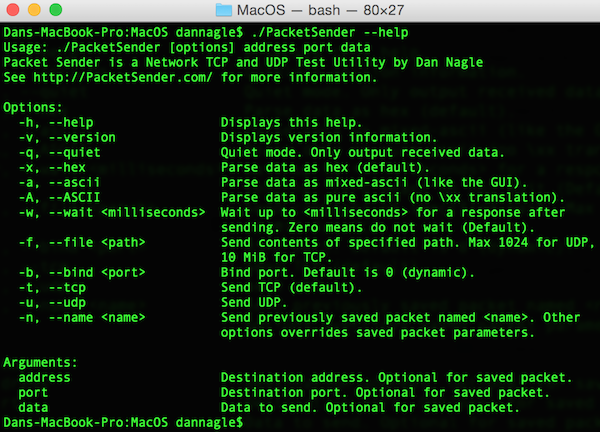
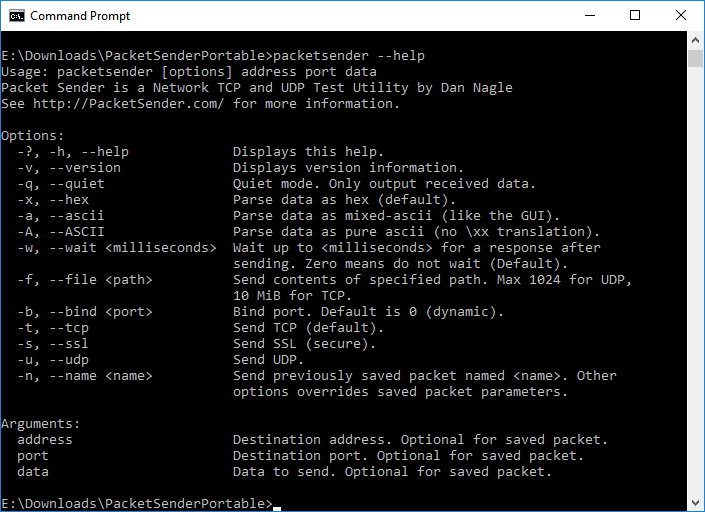
added ssl documenation

diff --git a/README.md b/README.md
@@ -2,7 +2,7 @@
 
 ![Packet Sender Logo](screenshots/packetsender_banner.png)
 
-Packet Sender is an open source utility to allow sending and receiving TCP and UDP packets. Packet Sender can also send SSL packets. The mainline branch officially supports Windows, Mac, and Desktop Linux (with Qt). Other places may recompile and redistribute Packet Sender. Packet Sender is free and licensed GPL v2 or later. It can be used for both commercial and personal use.
+Packet Sender is an open source utility to allow sending and receiving TCP and UDP packets. Packet Sender can also send SSL (encrypted TCP) packets. The mainline branch officially supports Windows, Mac, and Desktop Linux (with Qt). Other places may recompile and redistribute Packet Sender. Packet Sender is free and licensed GPL v2 or later. It can be used for both commercial and personal use.
 
 ## Uses
 
@@ -10,7 +10,7 @@ Packet Sender is an open source utility to allow sending and receiving TCP and U
 * Test automation (using its command line tool)
 * Testing network APIs (using the built-in TCP and UDP clients)
 * Malware analysis (using the built-in UDP and TCP servers)
-* Troubleshooting secure connections (using the SSL client). 
+* Troubleshooting secure connections (using the SSL client).
 * Testing network connectivity/firewalls (by having 2 Packet Senders talk to each other)
 * Tech support (by sending customers a portable Packet Sender with pre-defined settings and packets)
 
@@ -28,7 +28,7 @@ Some knowledge of basic network protocols is a prerequisite to using Packet Send
 
 * Twitter: [@NagleCode](http://twitter.com/naglecode)
 * You may also track this project on [GitHub](http://github.com/dannagle/PacketSender).
-* Secure Anonymous Email: [DanNagle.com/contact](http://DanNagle.com/contact)
+* Secure Anonymous Email: [DanNagle.com/](http://DanNagle.com/)
 
 ### Portable Mode
 
@@ -50,7 +50,7 @@ Packet Sender is identical for all the desktop versions. The only difference is 
 ![Packet Sender screenshot](screenshots/packetsender_mac_screenshot.png)
 
 
-* In the bottom right, there are UDP server and TCP server status and port. You can click to activate or deactivate these.
+* In the bottom right, there are UDP server and TCP server status and port. You can click to activate or deactivate these. There is no built-in SSL server.
 * There is also IPv4 Mode and IPv6 Mode. Click to toggle between server modes.
 * During packet resending, there will be a button to cancel all resends.
 * Please check your firewall. Windows aggressively blocks TCP-based servers. Packet Sender will still work if the firewall blocks it, but it can't receive unsolicited TCP-based packets.
@@ -58,7 +58,7 @@ Packet Sender is identical for all the desktop versions. The only difference is 
 * Select multiple packets to enable "Multi-Send". Selected packets are shown in a quick-send area above the traffic log.
 * Fields can be rearranged by drag-and-drop in the settings menu.
 * A resend value of "0" means it is a single-shot packet.
-* A packet has a name, destination address (domains will trigger an IP lookup), port, and data associated with it.
+* A packet has a name, destination address (domain names are default resolved just before sending), port, and data associated with it.
 * Click "Send" to immediately send. Click "Save" to send later.
 * For IPv6 sending, you will also need the scope ID.
 * Packet Sender supports mixed ASCII and HEX notation:
@@ -70,7 +70,26 @@ Packet Sender is identical for all the desktop versions. The only difference is 
   * Example ASCII: hello world\r
   * Example HEX: 68 65 6c 6c 6f 20 77 6f 72 6c 64 0d
   * You may save a packet directly from the traffic log. You will be prompted for a name, and the source address and port will be switched for your convenience.
+  * You may also load a file directly in to the HEX field. The HEX field supports sending up to 10,922 bytes. The theoretical limit for sending via the command line is 200 MB. 
 * An optional response can be sent. The same response is used for TCP and UDP.
+
+
+### SSL
+Packet Sender supports establishing encrypted connections over SSL. This is supported in the GUI and on the command line. Some notes on this:
+
+* The certificate negotiation is handled transparently.
+* By default, Packet Sender ignores all SSL errors (expired cert, wrong host name, weak encryption, etc).
+* Packet Sender outputs the cert negotiation progress in to the traffic log.
+* Packet Sender outputs the encryption algorithm used in the traffic log (such as AES 128).
+
+
+![Packet Sender Direct TCP](screenshots/packetsender_ssl.png)
+
+* If there is an SSL error, Packet Sender will output it to the traffic log. If the setting is to continue anyway (default), it will continue to negotiate encryption. Otherwise, the connection ends with failure to connect.
+
+![Packet Sender Direct TCP](screenshots/packetsender_expired_ssl.png)
+
+
 
 ### Smart Responses
 Packet Sender supports up to 5 smart responses. To use it, disable normal responses.
@@ -90,15 +109,15 @@ Packet Sender supports these macros when sending responses:
 * {{RANDOM}} -- Sends a random number ranging from either 0 to 32767 or 2147483647, depending on 32-bit or 64-bit (default installer for Windows is 32-bit. Mac is 64-bit).
 Packet Sender will swap the macro with real values before sending.
 
-### Persistent TCP
+### Persistent TCP and SSL
 Packet Sender supports persistent connections via a separate UI dialog. It is enabled by checkbox on the main window or in the settings dialog.
-![Packet Sender Direct TCP](screenshots/packetsender_direct_tcp.png)
+![Packet Sender Direct TCP and SSL](screenshots/packetsender_direct_tcp.png)
 * Any number of persistent connections can be created.
 * Previously saved packets can be loaded in the drop-down.
 * There is a "raw" view and "ASCII" view. The ASCII view is useful to troubleshoot data that is not printed by the raw view.
 * Traffic is also saved in the main window traffic log.
 * The timer in the bottom lefts starts as soon as a valid data packet is sent/received. It stops when the connection is closed.
-* You may optionally append a carriage return when you quick-send by hitting the return key. This is useful for command-prompt menus over TCP connections.
+* You may optionally append a carriage return when you quick-send by hitting the return key. This is useful for command-prompt menus over TCP  / SSL connections.
 * Incoming persistent connections to the server will launch the UI dialog.
 * During resend, the persistent connection packet is carried over to the new UI dialog. Clicking "Resending(1)" will cancel it.
 
@@ -152,6 +171,7 @@ The command line system in Packet Sender follows the same pattern as other Linux
     -f, --file <path> 	Send contents of specified path. Max 1024 for UDP, 10 MiB for TCP.
     -b, --bind <port> 	Bind port. Default is dynamic.
     -t, --tcp 	Send TCP (default).
+    -s, --ssl 	Send SSL.
     -u, --udp 	Send UDP.
     -n, --name <name> 	Send previously saved packet named <name>. Other options overrides saved packet parameters.
 
@@ -180,7 +200,7 @@ The only dependency is Qt SDK. Here is how to build the app.
 1. Build! Qt is the only dependency!
 
 ### Build for Linux
-Here is the sequence of commands for Ubuntu 15.04. Please adapt to your Linux platform. Packet Sender requires no additional libraries beyond the stock Qt SDK. I have been told there are build issues with stock Fedora. If a Fedora wizard can get it to properly compile, please let me know, and I'll add your instuctions.
+Here is the sequence of commands for Ubuntu 15.04. Please adapt to your Linux platform. Packet Sender requires no additional libraries beyond the stock Qt SDK. I have been told there are build issues with stock Fedora. If a Fedora wizard can get it to properly compile, please let me know, and I'll add your instructions.
 
 If you are feeling adventurous, feel free to build from the master branch. It contains the latest stable build. The development branch should probably be avoided.
 
